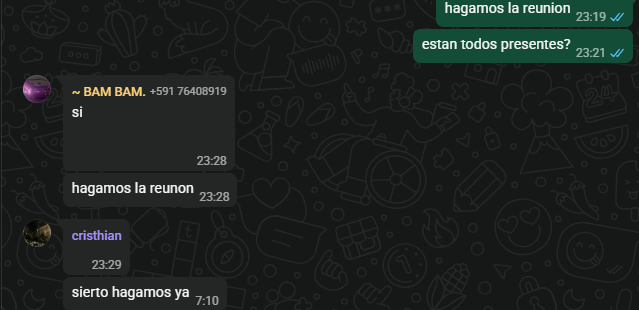
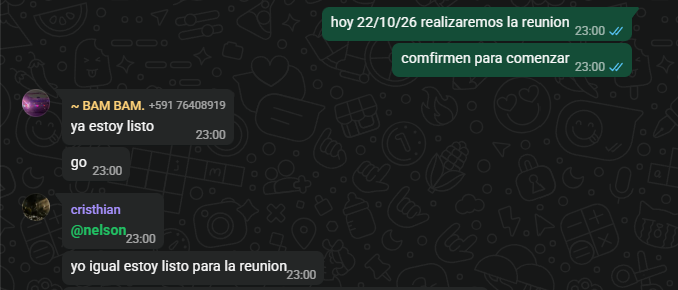
docs: replace meeting coordination screenshot

diff --git a/docs/actas/acta-01-ratificacion.md b/docs/actas/acta-01-ratificacion.md
@@ -58,10 +58,11 @@ documento de requisitos. ¿Se aprueba esa regla? ( ) Sí ( ) No
 | Crear tablero de Trello y compartir enlace | Alex | 22/10/26|si |
 
 ## 4. Evidencia de la reunión
-Captura del chat de WhatsApp: [evidencia-coordinacion-reunion.png](evidencia-coordinacion-reunion.png).
-La imagen documenta la coordinación para realizar la reunión; por sí sola no
-confirma que se haya realizado ni acredita la fecha, la asistencia completa o
-los acuerdos tratados.
+Captura del chat de WhatsApp del 22/10/2026:
+[evidencia-coordinacion-reunion.png](evidencia-coordinacion-reunion.png).
+Muestra la coordinación para realizar la reunión y mensajes de disponibilidad
+de integrantes. Por sí sola no confirma que la reunión se haya realizado ni
+acredita la asistencia completa o los acuerdos tratados.
 
 ## 5. Confirmación de los asistentes
 - Alex Vásquez Pérez: (si ) confirmado el 22/10/26
